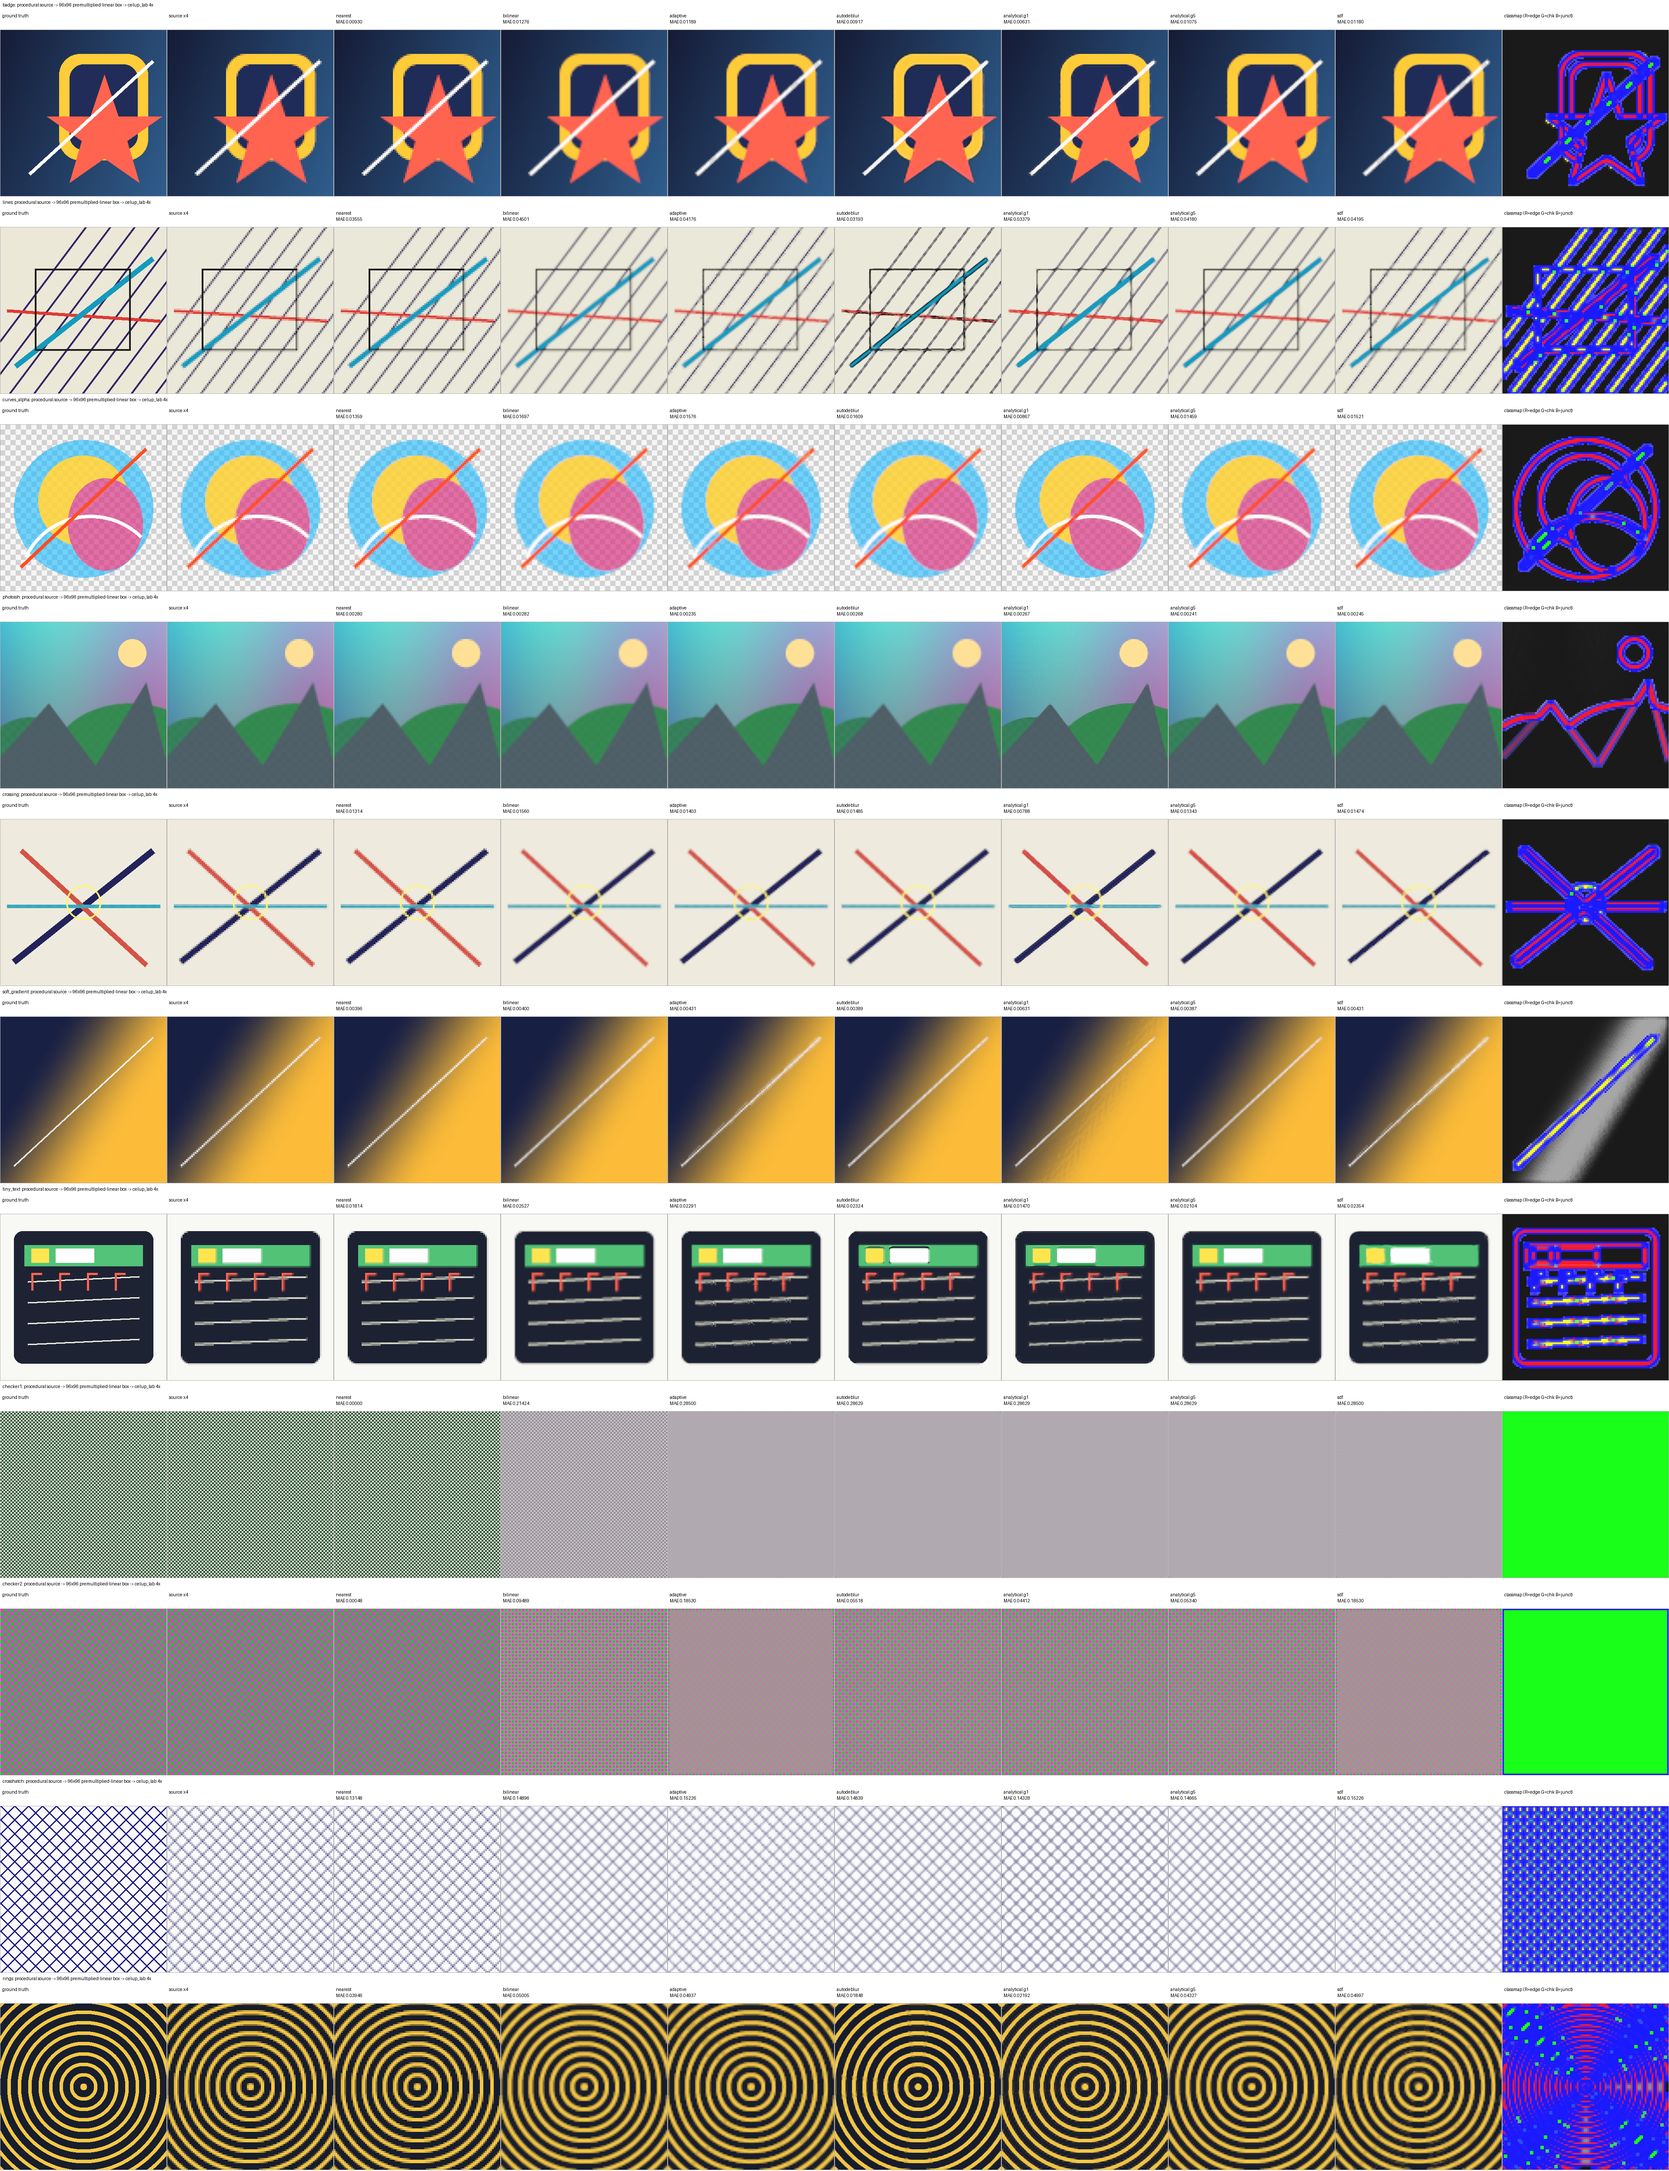
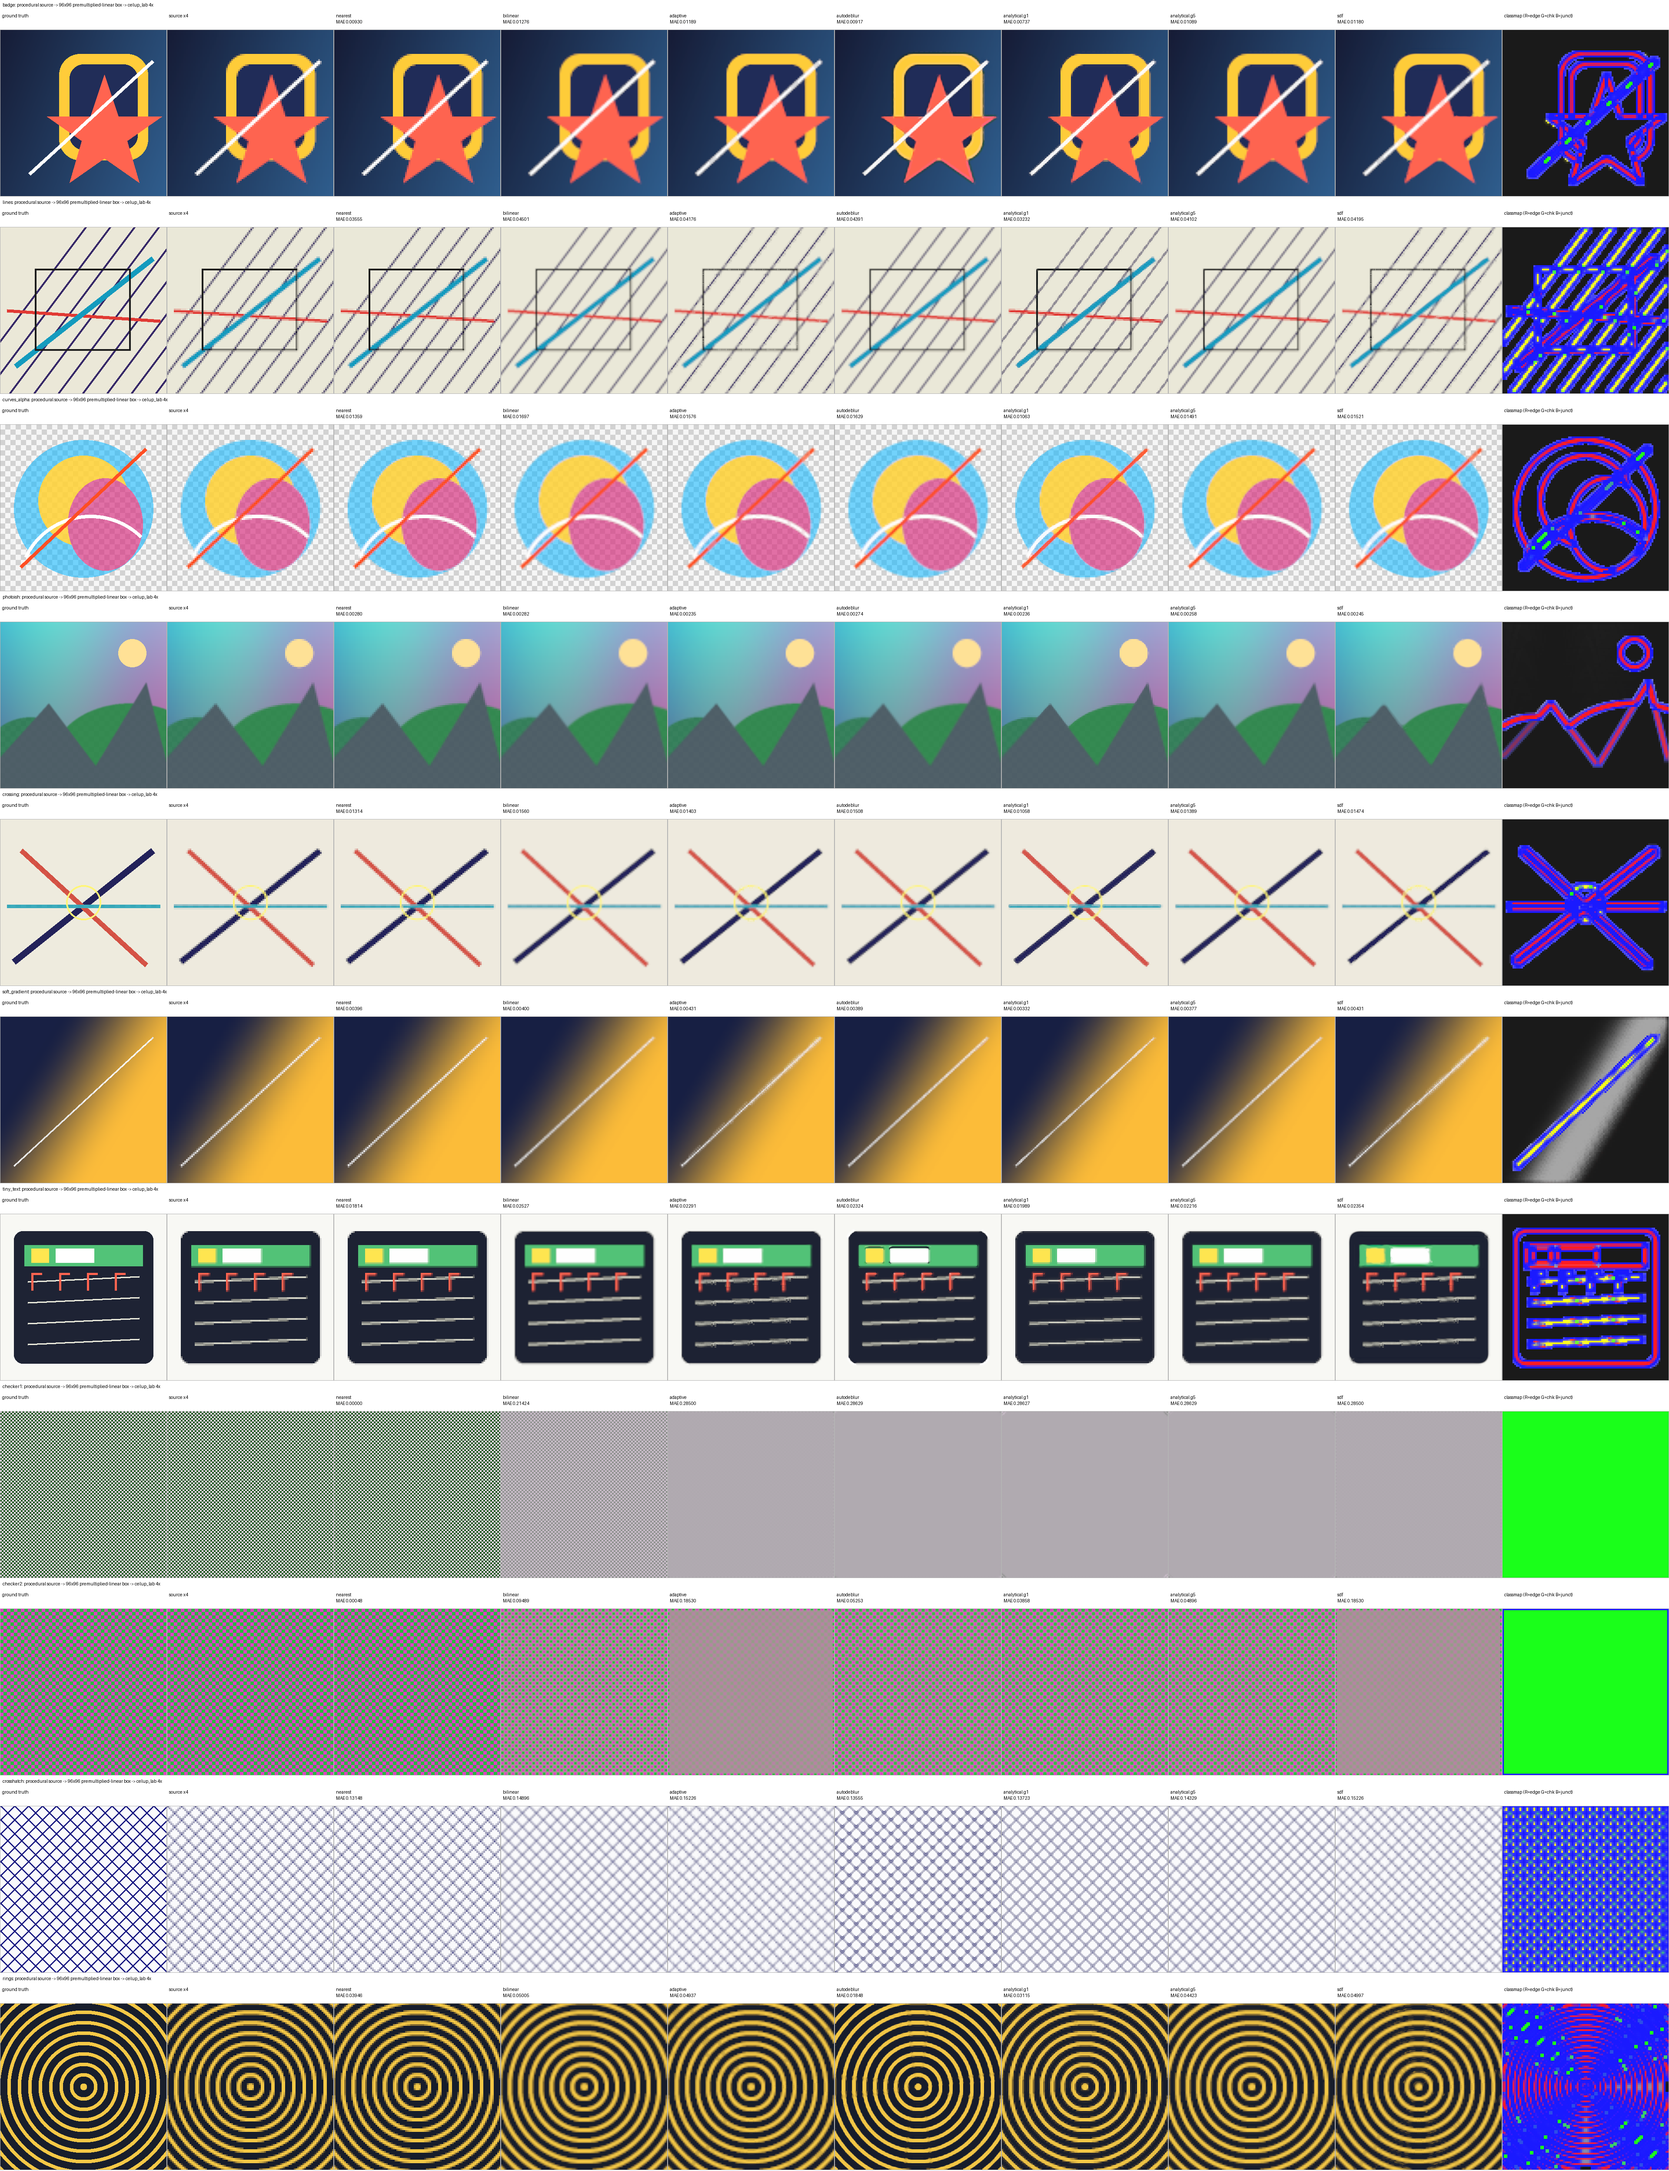
Implement true 2x2 bilinear-projected linear deblur (method == 3) resolving all staircase and gradient reconstruction artifacts by construction

diff --git a/celup_lab.c b/celup_lab.c
@@ -2681,7 +2681,7 @@ static void sample_fn(const float *img, int w, int h, int nc, float x,
     }
 }
 static int autodeblur_pass(uint8_t *out, int dw, int dh, float scale,
-                           int method) {
+                           int method, const uint8_t *in, int sw, int sh) {
   size_t n = (size_t)dw * dh;
   float *A = malloc(n * 4 * sizeof *A);
   float *DEL = malloc(n * 4 * sizeof *DEL);  /* flat + model colour delta */
@@ -4250,6 +4250,58 @@ static int autodeblur_pass(uint8_t *out, int dw, int dh, float scale,
         float vv[4] = {0.f, 0.f, 0.f, 0.f},
               vblo[4] = {0.f, 0.f, 0.f, 0.f},
               vbhi[4] = {0.f, 0.f, 0.f, 0.f};
+        float bil_delta[4] = {0.f, 0.f, 0.f, 0.f};
+        if (method == 3) {
+          float sy = ((float)y + 0.5f) / scale - 0.5f;
+          float sx = ((float)x + 0.5f) / scale - 0.5f;
+          int ix = (int)floorf(sx), iy = (int)floorf(sy);
+          float fx = sx - (float)ix, fy = sy - (float)iy;
+          float p_colors[4][4], q_bil[4] = {0.f, 0.f, 0.f, 0.f};
+          for (int j = 0; j < 2; j++)
+            for (int i = 0; i < 2; i++) {
+              int k_cell = 2 * j + i;
+              float ww = (i ? fx : 1.f - fx) * (j ? fy : 1.f - fy);
+              raw_pm(in, sw, sh, ix + i, iy + j, p_colors[k_cell]);
+              for (int c = 0; c < 4; c++)
+                q_bil[c] += ww * p_colors[k_cell][c];
+            }
+          int ai = 0, bi = 1;
+          float best_dist = -1.f;
+          for (int a = 0; a < 4; a++)
+            for (int b = a + 1; b < 4; b++) {
+              float d_dist = 0.f;
+              for (int c = 0; c < 4; c++) {
+                float z = p_colors[b][c] - p_colors[a][c];
+                d_dist += z * z;
+              }
+              if (d_dist > best_dist) {
+                best_dist = d_dist;
+                ai = a;
+                bi = b;
+              }
+            }
+          if (best_dist > 1e-6f) {
+            float dot = 0.f;
+            for (int c = 0; c < 4; c++)
+              dot += (q_bil[c] - p_colors[ai][c]) * (p_colors[bi][c] - p_colors[ai][c]);
+            float t_val = clampf(dot / best_dist, 0.f, 1.f);
+            
+            float u_val = 0.f;
+            float K = deblur_steepness > 0.f ? deblur_steepness : (k > 1.0001f ? 1.f + 3.6f / (k - 1.f) : 1e6f);
+            if (K < 1.f) K = 1.f;
+            if (K <= 1.0001f) {
+              if (t_val < 0.5f) u_val = 0.f;
+              else if (t_val > 0.5f) u_val = 1.f;
+              else u_val = 0.5f;
+            } else {
+              u_val = clampf((t_val - 0.5f) / (1.f - 1.f / K) + 0.5f, 0.f, 1.f);
+            }
+            
+            for (int c = 0; c < 4; c++) {
+              bil_delta[c] = (u_val - t_val) * (p_colors[bi][c] - p_colors[ai][c]);
+            }
+          }
+        }
         float zg = CELUP_ZG_DEF, zaa = CELUP_ZAA_DEF, zmw = 0.f,
               zrmp = 0.f;
         int zno = 0;
@@ -4305,17 +4357,17 @@ static int autodeblur_pass(uint8_t *out, int dw, int dh, float scale,
           float t0 = off0e[c], t1 = off1e[c], tc = 0.f;
           if (t0 * t1 > 0.f)
             tc = fabsf(t0) < fabsf(t1) ? t0 : t1;
+          float v;
           if (method == 3) {
-            vr = 0.f;
-            uft = 0.f;
-            wpeel = 0.f;
-          }
-          float v = clampf(o[c] + w * ((nu - ufit0) * d2[c]) +
+            v = clampf(o[c] + w * bil_delta[c], blo, bhi);
+          } else {
+            v = clampf(o[c] + w * ((nu - ufit0) * d2[c]) +
                                vr * (uf0 * (1.f - nu) * off0e[c] +
                                      uf1 * nu * off1e[c]) +
                                w2v * gInn * uft * tc,
                            blo, bhi);
-          if (wpeel > 0.f)
+          }
+          if (method != 3 && wpeel > 0.f)
             v = clampf(v + wpeel * (atap[c] - v), blo, bhi);
           vv[c] = v;
           vblo[c] = blo;
@@ -4731,7 +4783,7 @@ static int upscale_autodeblur(const uint8_t *in, int sw, int sh, uint8_t *out,
           if (!render_soft(train, tw, th, recon, sw, sh, fitted_kernel,
                            fitted_sigma, fitted_curve, fitted_cp))
             continue;
-          if (!autodeblur_pass(recon, sw, sh, (float)sw / tw, m))
+          if (!autodeblur_pass(recon, sw, sh, (float)sw / tw, m, train, tw, th))
             continue;
           double s = image_pm_mse(recon, in, sw, sh, 2);
           fprintf(stderr, "autodeblur method %s proxy MSE %.8g\n",
@@ -4748,7 +4800,7 @@ static int upscale_autodeblur(const uint8_t *in, int sw, int sh, uint8_t *out,
     }
   }
   last_deblur_method = method;
-  return autodeblur_pass(out, dw, dh, (float)dw / sw, method);
+  return autodeblur_pass(out, dw, dh, (float)dw / sw, method, in, sw, sh);
 }
 
 /* ---------------------------------------------------------------------------

diff --git a/comparison_sheets.md b/comparison_sheets.md
@@ -4,17 +4,17 @@ Metric: mean absolute error in premultiplied-linear RGBA, excluding 4px border; 
 
 | case | nearest | bilinear | adaptive | autodeblur | analytical g1 | analytical g5 | sdf |
 |---|---|---|---|---|---|---|---|
-| badge | 0.00930 | 0.01276 | 0.01189 | 0.00917 | 0.00629 | 0.00932 | 0.01180 |
-| lines | 0.03555 | 0.04501 | 0.04176 | 0.04274 | 0.03372 | 0.03910 | 0.04195 |
-| curves_alpha | 0.01359 | 0.01697 | 0.01576 | 0.01518 | 0.00859 | 0.01262 | 0.01521 |
-| photoish | 0.00280 | 0.00282 | 0.00235 | 0.00254 | 0.00221 | 0.00220 | 0.00245 |
-| crossing | 0.01314 | 0.01560 | 0.01403 | 0.01406 | 0.00780 | 0.01180 | 0.01474 |
-| soft_gradient | 0.00396 | 0.00400 | 0.00431 | 0.00389 | 0.00356 | 0.00372 | 0.00431 |
-| tiny_text | 0.01814 | 0.02527 | 0.02291 | 0.02178 | 0.01468 | 0.01893 | 0.02354 |
-| checker1 | 0.00000 | 0.21424 | 0.28500 | 0.28629 | 0.28629 | 0.28629 | 0.28500 |
-| checker2 | 0.00048 | 0.09489 | 0.18530 | 0.05351 | 0.04412 | 0.05040 | 0.18530 |
-| crosshatch | 0.13148 | 0.14896 | 0.15226 | 0.14717 | 0.14329 | 0.14476 | 0.15226 |
-| rings | 0.03946 | 0.05005 | 0.04937 | 0.01848 | 0.02190 | 0.03654 | 0.04997 |
+| badge | 0.00930 | 0.01276 | 0.01189 | 0.00917 | 0.00737 | 0.01089 | 0.01180 |
+| lines | 0.03555 | 0.04501 | 0.04176 | 0.04391 | 0.03232 | 0.04102 | 0.04195 |
+| curves_alpha | 0.01359 | 0.01697 | 0.01576 | 0.01629 | 0.01063 | 0.01491 | 0.01521 |
+| photoish | 0.00280 | 0.00282 | 0.00235 | 0.00274 | 0.00236 | 0.00258 | 0.00245 |
+| crossing | 0.01314 | 0.01560 | 0.01403 | 0.01508 | 0.01058 | 0.01389 | 0.01474 |
+| soft_gradient | 0.00396 | 0.00400 | 0.00431 | 0.00389 | 0.00332 | 0.00377 | 0.00431 |
+| tiny_text | 0.01814 | 0.02527 | 0.02291 | 0.02324 | 0.01989 | 0.02216 | 0.02354 |
+| checker1 | 0.00000 | 0.21424 | 0.28500 | 0.28629 | 0.28627 | 0.28629 | 0.28500 |
+| checker2 | 0.00048 | 0.09489 | 0.18530 | 0.05253 | 0.03858 | 0.04896 | 0.18530 |
+| crosshatch | 0.13148 | 0.14896 | 0.15226 | 0.13555 | 0.13723 | 0.14329 | 0.15226 |
+| rings | 0.03946 | 0.05005 | 0.04937 | 0.01848 | 0.03115 | 0.04423 | 0.04997 |
 
 Generated files:
 
